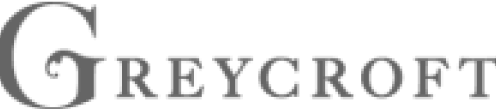
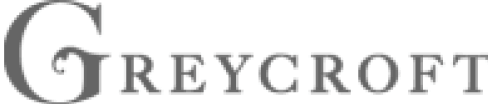
Fix Swiper, system theme, UI

Changed region(s): [[0.0, 0.0, 1.0, 1.0]]

diff --git a/src/components/Homepage/index.tsx b/src/components/Homepage/index.tsx
@@ -1,6 +1,7 @@
 'use client'
 
-import { useState } from 'react'
+import { useIntersectionObserver } from '@uidotdev/usehooks'
+import { PropsWithChildren, useEffect, useState } from 'react'
 
 import HomeHeader from '@/common/HomeHeader'
 import { HomeSidebar } from '@/common/HomeSidebar'
@@ -36,14 +37,81 @@ export default function Homepage() {
           'lg:ml-[248px]',
         )}
       >
-        <HeroSection />
-        <EcosystemSection />
+        <IntersectionComponent
+          id={Anchors.Home}
+          onIntersect={() => {
+            if (activeLink === Anchors.Home) return
+
+            setActiveLink(Anchors.Home)
+          }}
+        >
+          <HeroSection />
+        </IntersectionComponent>
+
+        <IntersectionComponent
+          id={Anchors.Ecosystem}
+          onIntersect={() => {
+            if (activeLink === Anchors.Ecosystem) return
+
+            setActiveLink(Anchors.Ecosystem)
+          }}
+        >
+          <EcosystemSection />
+        </IntersectionComponent>
+
         <ProjectsSection />
-        <RegistriesSection />
-        <CommunitySection />
+        <IntersectionComponent
+          id={Anchors.ZkRegistries}
+          onIntersect={() => {
+            if (activeLink === Anchors.ZkRegistries) return
+
+            setActiveLink(Anchors.ZkRegistries)
+          }}
+        >
+          <RegistriesSection />
+        </IntersectionComponent>
+        <IntersectionComponent
+          id={Anchors.Community}
+          onIntersect={() => {
+            if (activeLink === Anchors.Community) return
+
+            setActiveLink(Anchors.Community)
+          }}
+        >
+          <CommunitySection />
+        </IntersectionComponent>
         <NewsSection />
         <QRCodeBlock />
       </main>
+    </div>
+  )
+}
+
+function IntersectionComponent({
+  children,
+  onIntersect,
+  id,
+}: PropsWithChildren<{
+  onIntersect: () => void
+  id?: string
+}>) {
+  const [ref, entry] = useIntersectionObserver({
+    threshold: 0.9,
+    root: null,
+    rootMargin: '0px',
+  })
+
+  useEffect(() => {
+    if (!entry?.isIntersecting) return
+
+    onIntersect()
+
+    // eslint-disable-next-line react-hooks/exhaustive-deps
+  }, [entry?.isIntersecting])
+
+  return (
+    <div id={id} ref={ref} className='scroll-mt-5'>
+      {children}
     </div>
   )
 }

diff --git a/src/components/Homepage/components/CommunitySection.tsx b/src/components/Homepage/components/CommunitySection.tsx
@@ -12,6 +12,7 @@ import { backersList, communitiesList } from '@/assets/data'
 import ArrowLeftSLineIcon from '@/assets/icons/arrow-left-s-line-icon.svg'
 import ArrowRightSLineIcon from '@/assets/icons/arrow-right-s-line-icon.svg'
 import { AppSwiper } from '@/common/AppSwiper'
+import ClientOnly from '@/common/ClientOnly'
 import { Anchors } from '@/enums'
 import { isMediumScreen } from '@/helpers'
 import { cn } from '@/theme/utils'
@@ -142,21 +143,30 @@ function TestimonialsTabButton({
 } & HTMLAttributes<HTMLButtonElement> &
   PropsWithChildren) {
   return (
-    <button
-      {...rest}
-      disabled={isDisabled}
-      className={cn('flex items-center justify-center', className)}
-    >
-      <span
-        className={cn(
-          'typography-h3',
-          'md:typography-h2',
-          isActive ? 'text-secondary' : 'text-textSecondary',
-        )}
-      >
-        {children}
-      </span>
-    </button>
+    <ClientOnly>
+      {() => (
+        <button
+          {...rest}
+          disabled={isDisabled}
+          className={cn('flex items-center justify-center', className)}
+        >
+          <div className='relative flex flex-col gap-0.5'>
+            <span
+              className={cn(
+                'transition duration-300 typography-h3',
+                'md:typography-h2',
+                isActive ? 'text-secondary' : 'text-textSecondary',
+              )}
+            >
+              {children}
+            </span>
+            {isActive && (
+              <hr className='gradient1 absolute -bottom-2 h-0.5 w-full border-t-0' />
+            )}
+          </div>
+        </button>
+      )}
+    </ClientOnly>
   )
 }
 

diff --git a/src/components/Homepage/components/ProjectsSection.tsx b/src/components/Homepage/components/ProjectsSection.tsx
@@ -4,6 +4,7 @@ import { SwiperRef, SwiperSlide } from 'swiper/react'
 import { projectsList } from '@/assets/data'
 import ArrowLeftSLineIcon from '@/assets/icons/arrow-left-s-line-icon.svg'
 import ArrowRightSLineIcon from '@/assets/icons/arrow-right-s-line-icon.svg'
+import ExternalLinkIcon from '@/assets/icons/external-link-icon.svg'
 import UnderlineIcon from '@/assets/icons/underline-icon.svg'
 import AnimatedNumber from '@/common/AnimatedNumbers'
 import { AppSwiper } from '@/common/AppSwiper'
@@ -162,14 +163,23 @@ function ProjectSliderCard({
       <div
         {...rest}
         className={cn(
-          'flex flex-col p-6',
+          'group flex flex-col p-6',
           'relative h-[215px] w-[275px] rounded-[20px]',
           'bg-additionalOpacited backdrop-blur-[24px]',
           className,
         )}
       >
         <img className='mb-auto size-12' src={imageUrl} alt={title} />
-        <span className='text-textPrimary typography-h4'>{title}</span>
+        <div className='flex items-center gap-2'>
+          <span className='text-textPrimary typography-h4'>{title}</span>
+          <ExternalLinkIcon
+            className={cn(
+              'text-textSecondary',
+              'opacity-0 transition duration-300',
+              'group-hover:opacity-100',
+            )}
+          />
+        </div>
         <span className='mt-2 text-textSecondary typography-body3'>
           {description}
         </span>

diff --git a/src/components/Homepage/components/RegistriesSection.tsx b/src/components/Homepage/components/RegistriesSection.tsx
@@ -136,7 +136,7 @@ function RegistryCard({
             className={cn(
               'flex flex-col items-center justify-center pb-8',
               'h-[424px] w-full',
-              'rounded-[24px] border-2 border-componentPrimary bg-backgroundContainer',
+              'rounded-[24px] border border-componentPrimary bg-backgroundContainer',
               'relative overflow-hidden',
               'md:min-w-none md:max-w-none',
             )}
@@ -148,11 +148,11 @@ function RegistryCard({
             />
             <div
               className={cn(
-                'z-10 flex w-full max-w-[90%] flex-col gap-2 text-center',
+                'z-10 flex w-full flex-col items-center gap-2 text-center',
               )}
             >
               <span className='text-textPrimary typography-h4'>{title}</span>
-              <span className='text-textSecondary typography-body3'>
+              <span className='max-w-[75%] text-textSecondary typography-body3'>
                 {description}
               </span>
             </div>

diff --git a/src/common/ThemeSwitcher.tsx b/src/common/ThemeSwitcher.tsx
@@ -12,9 +12,12 @@ const INITIAL_THUMB = { x: 0, y: 0 }
 const ANIMATED_THUMB = { x: '105%' }
 
 export default function ThemeSwitcher() {
-  const { theme, setTheme } = useTheme()
+  const { resolvedTheme, setTheme } = useTheme()
 
-  const isDarkTheme = useMemo(() => theme === Theme.Dark, [theme])
+  const isDarkTheme = useMemo(
+    () => resolvedTheme === Theme.Dark,
+    [resolvedTheme],
+  )
 
   return (
     <ClientOnly>
@@ -41,7 +44,7 @@ export default function ThemeSwitcher() {
 
           <button
             className='absolute left-0 top-0 z-40 size-full'
-            onClick={() => setTheme(isDarkTheme ? 'light' : 'dark')}
+            onClick={() => setTheme(isDarkTheme ? Theme.Light : Theme.Dark)}
           />
         </div>
       )}

diff --git a/src/common/QRCodeBlock.tsx b/src/common/QRCodeBlock.tsx
@@ -51,7 +51,7 @@ function DesktopQRCodeBlock({ onBlockClose }: { onBlockClose: () => void }) {
       initial='initial'
       animate='animate'
       exit='exit'
-      transition={{ duration: 1 }}
+      transition={{ duration: 0.3 }}
       className={cn(
         'flex flex-col items-center justify-center',
         'rounded-2xl bg-backgroundSurface1 p-1.5',

diff --git a/src/components/Homepage/components/HeroSection.tsx b/src/components/Homepage/components/HeroSection.tsx
@@ -43,7 +43,7 @@ export default function HeroSection() {
       gradientDecorClassName={cn(
         '-right-[65px] -top-[83px] -rotate-[10deg] h-[570px] w-[680px]',
       )}
-      fullHeightContainerClassName={cn('h-[calc(100dvh-68px)]')}
+      fullHeightContainerClassName={cn('h-[calc(100svh-60px)]')}
       data-aos='fade-up'
     >
       <div

diff --git a/src/theme/styles.scss b/src/theme/styles.scss
@@ -1,6 +1,16 @@
 @tailwind base;
 @tailwind components;
 @tailwind utilities;
+@layer utilities {
+  .no-scrollbar::-webkit-scrollbar {
+    display: none;
+  }
+
+  .no-scrollbar {
+    -ms-overflow-style: none;
+    scrollbar-width: none;
+  }
+}
 
 html, body {
   @apply size-full scroll-smooth;

diff --git a/src/common/AppSwiper.tsx b/src/common/AppSwiper.tsx
@@ -33,6 +33,7 @@ export const AppSwiper = forwardRef<SwiperRef, AppSwiperProps>(
           freeMode
           edgeSwipeDetection
           {...props}
+          className='no-scrollbar md:overflow-x-scroll'
         >
           {children}
         </Swiper>

diff --git a/src/assets/data/backers.ts b/src/assets/data/backers.ts
@@ -26,8 +26,8 @@ export const backersList = [
   {
     image: '/images/backers/greycroft.png',
     title: 'Greycroft',
-    width: 124,
-    height: 27,
+    width: 122,
+    height: 26,
   },
   {
     image: '/images/backers/eniac-ventures.png',

diff --git a/src/enums/theme.ts b/src/enums/theme.ts
@@ -1,4 +1,5 @@
 export enum Theme {
   Dark = 'dark',
   Light = 'light',
+  System = 'system',
 }
